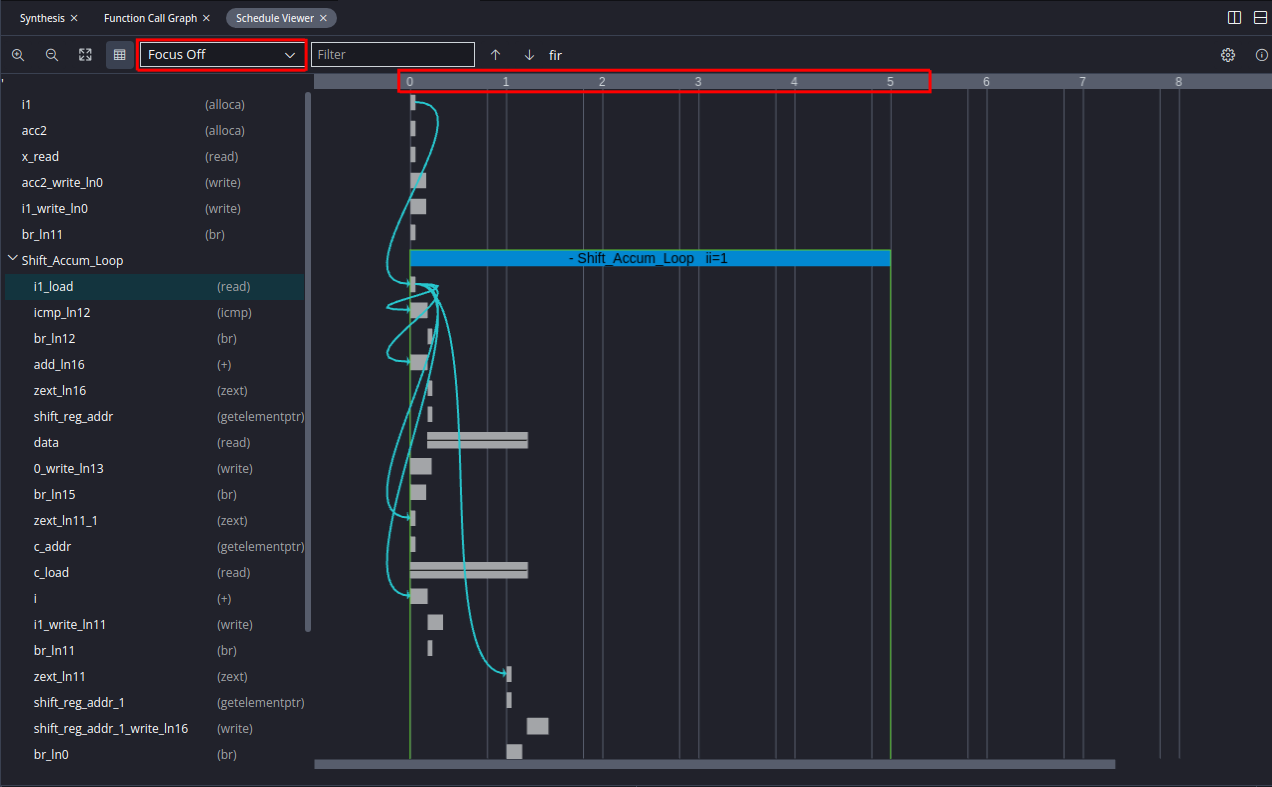
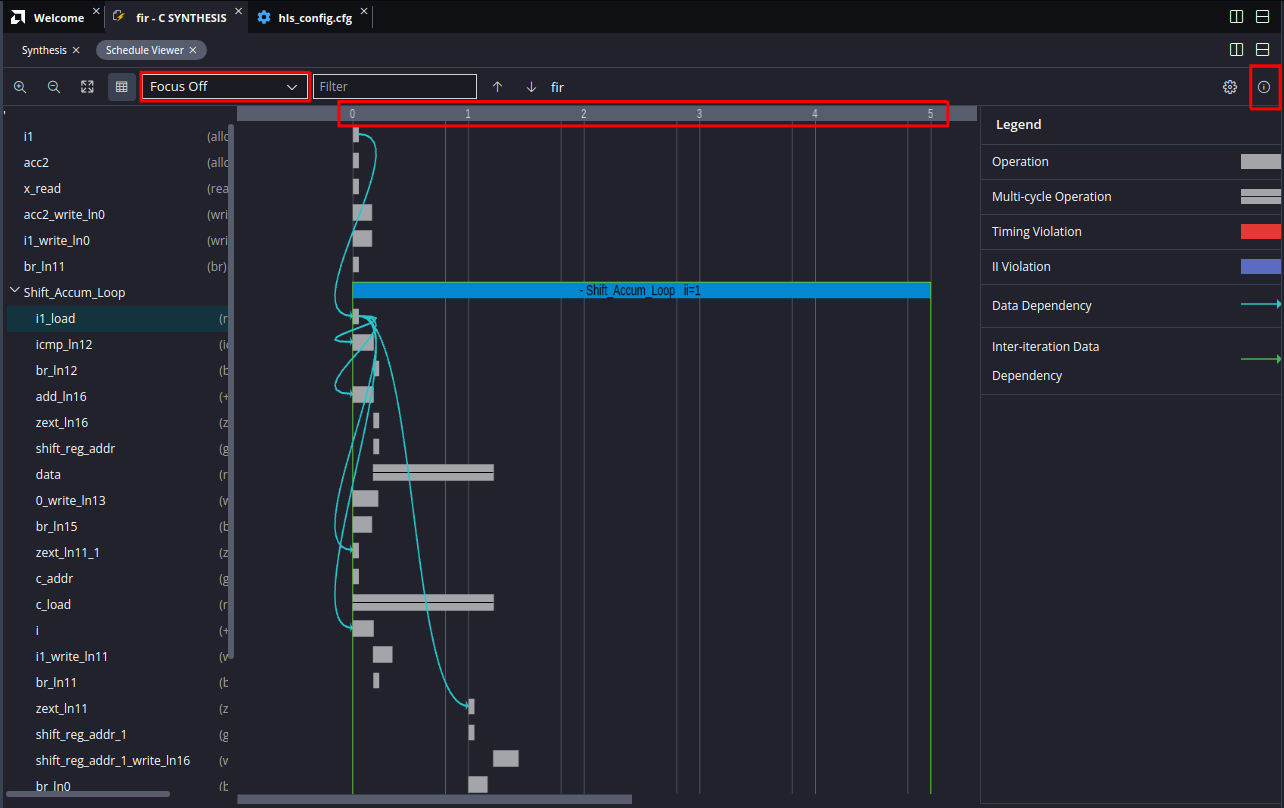
Added content

diff --git a/vitis_hls/tutorial_01/tutorial_01.md b/vitis_hls/tutorial_01/tutorial_01.md
@@ -1,11 +1,10 @@
 # HLS Tutorial 1: Project Setup and Basic Steps
 
-
 ---
 ## Overview
 * In this tutorial the setup of a Vitis HLS component project is described. Furthermore the basic steps _C Simulation_, _C Synthesis_ and _C/RTL Cosimulation_ are described. As an example we take a simple FIR filter, the source code for the component and the testbench can be found in the folder `reference_files/src`.
 * The project setup will be done in the Vitis GUI, this is described in [Creating a HLS component](#creating-a-hls-component). 
-* You can setup a project also on the command line, this is described in [Creating components from the command line](#creating-components-from-the-command-line). You can then open the Vitis GUI and open the project workspace and continue working with the project. 
+* You can setup a project also on the command line, this is described in [tutorial 1b](tutorial_01_b.md). You can then open the Vitis GUI and open the project workspace and continue working with the project. 
 * It is essential that you understand the concept of workspaces and components before you start with a component project. This is described in [Workspaces and components](#workspaces-and-components).
 * All setup data of a component is stored in a configuration file. If you setup a component project on the command line you need such a configuration file. You can find the content of a sample file in [Creating components from the command line](#creating-components-from-the-command-line) and in the folder `reference_files`. If you make changes later on in the Vitis GUI all changes will be stored in the same configuration file which you used for setting up the project.
 
@@ -51,7 +50,7 @@ vitis  -w <workspace>
 ![Create HLS component](images/hls_02.png)
 
 
-* This opens the _Configuration File_ page of the wizard as shown below. The HLS component configuration file contains commands and directives used for the synthesis, simulation, and export of the component and is _the_ most important file (beside the source code files).
+* This opens the _Configuration File_ page of the wizard as shown below. The HLS component configuration file contains commands and directives used for the synthesis, simulation, and export of the component and is _the_ most important file (besides the source code files).
 
 ![Configuration page](images/hls_03.png)
 
@@ -86,11 +85,11 @@ vitis  -w <workspace>
 ![Settings page](images/hls_06.png)
 
 * The _Summary_ page reflects the choices you have made on the prior pages. Review the summary and select `Finish` to create the HLS component, or select Back to return to earlier pages and change your selections.
-* When the HLS component is created you will get back to the Vitis IDE with the opened component workspace. Now it is time to explain the Vitis IDE in more detail. In the image below you can see five areas or panes in the IDE, if you are familiar with Visual Studio Code you may notice some similarities. The pane numbered with 1 is the _tool bar_ which allows you to switch between major features of the tool: the _Vitis Component Explorer_ (this is where you are at the moment), the _Search_ function, _Source Control_, the _Debug_ view, _Examples_, and the _Analysis_ view. Pane 2 is the _Vitis Component Explorer_ which can be used to view a virtual hierarchy of the workspace. The view displays the different elements of the component or project, such a sources and outputs folder. It does not show the real folder structure on the file system. In the _Flow Navigator_ in pane 3  you can select the actual component and the tools you can apply to it (C Simulation, C Synthesis C/RTL Cosimulation,  Package and Implementation). Pane 4 is the central editor window where you can edit the sources and view reports etc. Pane 5 is the console and terminal area, which may not be opened if you have not started a tool yet.  
+* When the HLS component is created you will get back to the Vitis IDE with the opened component workspace. Now it is time to explain the Vitis IDE in more detail. In the image below you can see five areas or panes in the IDE, if you are familiar with Visual Studio Code you may notice some similarities. The pane numbered with 1 is the _tool bar_ which allows you to switch between major features of the tool: the _Vitis Component Explorer_ (this is where you are at the moment), the _Search_ function, _Source Control_, the _Debug_ view, _Examples_ and the _Analysis_ view. Pane 2 is the _Vitis Component Explorer_ which can be used to view a virtual hierarchy of the workspace. The view displays the different elements of the component or project, such as sources and the outputs folder. It does not show the real folder structure on the file system. In the _Flow Navigator_ in pane 3  you can select the actual component (you have only one component `fir`) and the tools you can apply to it (C Simulation, C Synthesis C/RTL Cosimulation,  Package and Implementation). Pane 4 is the central editor window where you can edit the sources and view reports etc. Pane 5 is the console and terminal area, which may not be opened in your Vitis GUI since you have not started a tool yet.  
 
 ![Vitis GUI with component](images/hls_07.png)
 
-* Please review now also the folder structure in your workspace (with the Linux file manager). You have one component named `fir`, which uses the source codes in the `src` folder. In the component folder you can see the configuration file `hls_config.cfg` and the JSON file `vitis-comp.json`, plus another JSON file. You can see the sources and settings files also in the upper left pane (which is called the _Vitis Component Explorer_) in the Vitis GUI as shown in the image below.
+* Please review now also the folder structure in your workspace (with the Linux file manager). You have one component named `fir`, which uses the source codes in the `src` folder. In the component folder you can see the configuration file `hls_config.cfg` and the JSON file `vitis-comp.json`, plus another JSON file. You can see the sources and settings files also in the  _Vitis Component Explorer_ as shown in the image below.
 
 ```
 workspace_dir
@@ -112,11 +111,11 @@ workspace_dir
 ---
 ## C Simulation
 * The first step in a HLS project is to verify the correct function of the C code of the component. In order to test the component a _test bench_ is needed, which generates input data for the component and compares the output data with reference data. This is the same approach as in VHDL/Verilog design, the difference is that everything is coded in C/C++. So what we basically do here is to compile the code for the testbench and component and run the compiled code as application. 
-* First open the C sources in Vitis with the _Component Explorer_ and study the code for the component (`fir.c`) and the testbench (`fir_test.c`). In the component code you can see a loop _Shift_Accum_Loop_ which codes the functionality of an FIR filter with a shift register `shift_reg[N]` where the coefficients (argument `c[N]`) are multiplied with the shifted data and accumulated in the variable `acc` and returned via the pointer `y`. It is good practice to give loops a label in order to be able to identify them during analysis of the HLS synthesis results.  
+* First open the C sources in Vitis with the _Component Explorer_ and study the code for the component (`fir.c`) and the testbench (`fir_test.c`). In the component code you can see a loop _Shift_Accum_Loop_ which codes the functionality of an FIR filter with a shift register `shift_reg[N]` where the coefficients (argument `c[N]`) are multiplied with the shifted data and accumulated in the variable `acc` and returned via the pointer `y`. It is good practice to label loops in order to be able to identify them during analysis of the HLS synthesis results.  
 * The testbench (`fir_test.c`) defines the coefficients for the FIR filter in the variable `taps[N]`. In line 18 the file `out.gold.dat` is opened which contains the input data and the expected output data for comparison. In the loop the input and reference data is read and the component top level function is called in line 26. Finally the output data generated by the component is compared and an error flag is set, if there are discrepancies. An HLS testbench, i.e. the main function, needs to return a value, which is 0 in case of success and 1 if the output data of the component is not correct. This is important because the C/RTL Co-Simulation uses the same testbench and also checks the output of the generated VHDL or Verilog code against the reference data. This means that an HLS testbench always must be written in such a way that it is self-checking and generates a final pass (0) or fail (1) value as return value.
 * Run the C Simulation by pushing the `Run` button in the _Flow Navigator_ under `C Simulation`. A window will pop up and ask you if you want to enable the _Code Analyzer_, you can disable this feature for this tutorial. After simulation is completed you will see the output of the simulation below the editor window in the console area.  
 * If you write yourself code you may want to use a debugger by pushing the `Debug` button instead of `Run`. Vitis now starts the debugger as shown in the image below. Here you have the standard debugger functions like _Continue_, _Step Over_, _Step Into_ etc. (marked in red). You can also watch the variables (marked in red) or set break points in the source code editor. It is very similar in functionality to the debugger in Visual Studio Code. 
-* If you want to stop the debugger then push the red square button (`Stop`). In order to come back to the normal Vitis view, which you had before you started debugging, you have to push in the tool bar (most left pane) the _Vitis Components_ symbol (marked in green).
+* If you want to stop the debugger then push the red square button (`Stop`). In order to come back to the normal Vitis view, which you had before you started debugging, you have to push (most left pane) the _Vitis Components_ symbol (marked in green) in the tool bar .
 
 ![Debug code](images/hls_09.png)
 
@@ -124,54 +123,59 @@ workspace_dir
 ---
 ## C Synthesis
 * The most important step is the _C Synthesis_, which is in fact the High Level Synthesis (HLS) of the component coded in C/C++. To start the HLS go to the _Flow Navigator_ and push the `Run` button under `C Synthesis`. It will take some seconds depending on the compute power of your machine, when it is finished you will see _Synthesis finished successfully_ in the output console.
-* Go to the _Flow Navigator_, expand _REPORTS_ in the _C Synthesis_ section and push `Synthesis`. You should now see the synthesis report as shown in the next image. The most interesting informations are the _Timing Estimate_ and the _Performance & Resource Estimate_. As you can see in the report our constraint was a clock cycle time of 10 ns and Vitits estimates the critical path of the component to 6.86 ns, so we have a slack of 3.14 ns which is comfortable. But this is only a rough estimate since the component has not yet be implemented. In the _Performance & Resource Estimate_ you can see the latency and interval values (16 clock cycles and 11 clock cycles). The latency is the time for one operation of the component, which means one operation lasts 16 x 10 ns = 160 ns. The _Interval_ (shorthand for _Initiation Interval_) is the number of clock cycles before new inputs can be applied. Since we have 11 cycles for the _Interval_ this means that we could apply new input values before the operation of the component has finished (which takes 16 cycles). This follows from the fact that the loop has been pipelined, which you can also see in the report in the column _PIPELINED_. We will come back on pipeline topic in another tutorial.  
+* Go to the _Flow Navigator_, expand _REPORTS_ in the _C Synthesis_ section and push `Synthesis`. You should now see the synthesis report as shown in the next image. The most interesting informations are the _Timing Estimate_ and the _Performance & Resource Estimate_. As you can see in the report our constraint was a clock cycle time of _10 ns_ and Vitits estimates the critical path of the component to _6.86 ns_, so we have a slack of _3.14 ns_ which is comfortable. But this is only a rough estimate since the component has not yet be implemented. 
+* In the _Performance & Resource Estimate_ you can see the latency and interval values (16 clock cycles and 11 clock cycles). The latency is the time for one operation of the component, which means one operation lasts _16 x 10 ns = 160 ns_. The _Interval_ (shorthand for _Initiation Interval_) is the number of clock cycles before new inputs can be applied. Since we have 11 cycles for the _Interval_ this means that we could apply new input values before the operation of the component has finished (which takes 16 cycles). 
+* The performance is mainly determined by the loop, which iterates 11 times (_TRIP COUNT_). Each loop iteration needs 5 clock cycles (_ITERATION LATENCY_). The loop is operated in a pipelined manner, which you can also see in the report in the column _PIPELINED_. This means that loop iterations can start earlier, otherwise we would need _5 x 11 cycles = 55 cycles_ for all iterations. Loop pipelining is always applied automatically, since it is very effective. We will come back on pipelining in another tutorial.  
 
 ![Synthesis report](images/hls_10.png)
 
-* There are some more reports, for example the _Function Call Graph_, which shows you the function hierarchy (not really important for this tutorial). Another important report for analysis of the generated component hardware is the _Schedule Viewer_. If you open it you should the scheduling of the hardware operation as shown in the next image. 
-* In the first column you will see some cryptic names, these refer to identifiers in the generated VHDL or Verilog code. In the upper row (marked in red) you will see numbers beginning from 0. These are the so-called _control states_ of the finite state machine (FSM), which controls the operation of the component. You can easily identify the loop _Shift_Accum_Loop_ which takes 5 cycles for one iteration (this corresponds to the value in the synthesis report). 
-* Although this view may appear cryptic at a first glance, this is the main tool if you want to understand how the component operates and what could possibly be optimized. From experience the loops and memory accesses determine mainly the performance in terms of clock cycles and with some practice the schedule viewer can be helpful in analyzing the bottlenecks of your design. 
+* There are some more reports, for example the _Function Call Graph_, which shows you the function hierarchy (not really important for this tutorial). Another important report for analysis of the generated component hardware is the _Schedule Viewer_. If you open it you should see the scheduling of the hardware operation as shown in the next image. 
+* In the first column you will see some cryptic names, these refer to identifiers in the generated VHDL or Verilog code and represent operations in the hardware. In the upper row (marked in red) you will see numbers beginning from 0. These are the so-called _control states_ of the finite state machine (FSM), which controls the operation of the component. One control state equals one clock cycle. You can easily identify the loop _Shift_Accum_Loop_ which takes 5 cycles for one iteration (this corresponds to the value in the synthesis report). With the _Focus_ field (marked in red) you can set the focus to the loop, such that you can only inspect the loop. On the right side you can activate a legend (i-symbol marked in red).
+* Although this view may appear cryptic at a first glance, this is the main tool if you want to understand how the component operates and what could possibly be optimized. From experience the loops and memory accesses determine mainly the performance in terms of clock cycles and with some practice the schedule viewer can be helpful in analyzing the bottlenecks of your design. If you push one of the operations with the left mouse button you will see some green lines which show you the dependencies of the operations, which can be also helpful.
 
 ![Schedule viewer 1](images/hls_11.png)
 
-* If you push the right mouse button over one of the identifiers in the left column you get a context menu `Goto Source` which jumps to your C source code and shows you the relation to your C code. If you select for example the identifier `c_load` and go to the source you can see that this is the  access to the argument `c[i]`, which is in fact a memory access in hardware (it is assumed that a Block RAM is attached to the component which stores the coefficients). This is a so-called _multicycle resource_, since the corresponding bar spans over a clock cycle (and the bar has a center line).
+* If you push the right mouse button over one of the operations in the left column you get a context menu `Goto Source` which jumps to your C source code and shows you the relation to your C code. If you select for example the identifier `c_load` and go to the source you can see in line 19 that this is the  access to the argument `c[i]`, which is in fact a memory access in hardware (it is assumed that a Block RAM is attached to the component which stores the coefficients). This is a so-called _multicycle resource_, since the corresponding bar spans over a clock cycle (and the bar has a center line). In case of the Block RAM access this means that the address and control signals are applied before the rising clock edge and the Block RAM will deliver the coefficient value after the clock edge.
 
 ![Schedule viewer 2](images/hls_12.png)
 
-* There are also more informations in the reports. For example when you scroll down the synthesis report you will see informations on the hardware interfaces and SW I/O (where you can see the memory port for argument `c[N]`) and finally operator and storage information. We will come back on these issues in a later tutorial.
+* There are also more informations in the reports. For example when you scroll down the synthesis report you will see informations on the hardware interfaces and SW I/O (where you can see for example the memory port for argument `c[N]`) and finally operator and storage information. We will come back on these issues in a later tutorial.
 
 ---
 ## C/RTL Cosimulation
-* You can inspect the generated VHDL or Verilog code under _Output_ in the _Vitis Components Explorer_. In the image below you can see that the toplevel VHDL code `fir.vhd` has been opened. Since it is not sensible or possible to inspect the whole generated VHDL/Verilog code, the only way to verify it is by simulation. The _C/RTL Cosimulation_ will simulate the generated VHDL or Verilog by executing the C testbench and simulating the VHDL or Verilog code with the Xilinx simulation tool. Since we use the same self-checking testbench, that we have used for C simulation, we can be sure that the generated hardware component produces the same output data than our C code, if we have a _Pass_. Therefore _C/RTL Cosimulation_ is an important step and although you could proceed without cosimulation you should not do that. If cosimulation fails there can be several reasons for it, but one reason could be in fact that the hardware works not correctly.
+* You can inspect the generated VHDL or Verilog code under _Output_ in the _Vitis Components Explorer_. In the image below you can see that the toplevel VHDL code `fir.vhd` has been opened. Since it is not sensible or possible to inspect the whole generated VHDL/Verilog code, the only efficient way to verify it is by simulation. The _C/RTL Cosimulation_ will simulate the generated VHDL or Verilog code by executing the C testbench and simulating the VHDL or Verilog code with the Xilinx simulation tool. Since we use the same self-checking testbench, that we have used for C simulation, we can be sure that the generated hardware component produces the same output data than our C code, if we have a _Pass_. Therefore _C/RTL Cosimulation_ is an important step and although you could proceed without cosimulation you should not do that. If cosimulation fails there can be several reasons for it, but one reason could be in fact that the hardware works not correctly.
 
 ![VHDL code](images/hls_13.png)
 
-* 
+* Push the `Run` button in the section _C/RTL COSIMULATION_ in the _Flow Navigator_. When co-simulation has finished you should see the message marked in red in the next image in the console. In the console window there is a navigation area (marked in red) where you can switch between the console outputs of the tools.
+* Under _REPORTS_ select _ Cosimulation_ and you will see the _Performance & Resource Estimates_. If you compare this with the values of the synthesis report you may notice that the initiation interval is 15 cycles and not 11 cycles. If you scroll up in the console output there is a warning related to this problem:
+
+```
+WARNING: [HLS 200-626] This design is unable to schedule all read ports in the first II cycle. The RTL testbench may treat the design as non-pipelined
+ ```
+* This is a pipelining issue, which means that new data can only be applied after 15 clock cycles. We will come back on pipelining issues in a later tutorial. 
+
+![Cosimulation](images/hls_14.png)
+
+* When you push on _Timeline Trace_ under the reports the timeline trace report is opened as shown in the next image. In our testbench `fir_test.c` we call the `fir` function 26 times and you see there are 26 executions of the hardware component in this view. Each execution needs 15 cycles, and there is always an overlap of 1 cycle, where new data is applied. So the total execution time is 390 cycles for all 26 executions of the component, which gives an average execution time of 15 clock cycles.
+
+![Timeline](images/hls_15.png)
+
+* You can see that there is also an additional report called `Wave Viewer`. This is basically starting the Vivado wave viewer where you could watch the waveform traces of the VHDL/Verilog simulation. It is greyed out by default and would need some special settings in the configuration file. We will skip this here.
 
 ---
-## Creating components from the command line
-* If you want to generate components from the command line, e.g. for comparing variants you can run Vitis HLS from the command line. Switch to the component folder (directory structure as described above) and execute the following commands. This will setup a component project and start a HLS synthesis run, according to the settings given in the configuration file  `component1_config.cfg`. All output data will be stored in the work directory `component_work`.
-  
-```
-source <vitis installation path>/Vitis/<Version>/settings64.sh
-v++ -c --mode hls --config ./component1_config.cfg --work_dir component_work
-```
+## Package and Implementation
+* The last important step is to export the component as _IP Core_ such that it can be used in Vivado. Go to the _PACKAGE_ section in the _Flow Navigator_ and push `Run` (see image below). After a while you will see the message in the console marked in red which says that a zip-file `fir.zip` was generated in the folder `fir`, where the path is relative to the component folder such that you can find it in `<workspace>/fir/fir/fir.zip`. 
+* In addition the files of the IP Core are also generated in the Output section in the `impl` folder in the _Vitis Component Navigator_ as you can see in the image below (the true file path to this folder is `<workspace>/fir/fir/hls/impl`).
 
-* _Tip_: Put the commands in a bash shell script and execute the script.
-* The command or script should be executed in the component subdirectory of a workspace, see [Workspaces and components](#workspaces-and-components).
-* Below you can see the content of a sample configuration file. Refer to the [Vitis HLS documentation](https://docs.amd.com/r/en-US/ug1399-vitis-hls/HLS-Config-File-Commands) for the meaning of the entries in the file.
-```
-part=xc7a35tcpg236-1
+![Package](images/hls_16.png)
 
-[hls]
-flow_target=vivado
-package.output.format=ip_catalog
-package.output.syn=false
-syn.top=fir
-syn.file=../src/fir.c
-tb.file=../src/fir_test.c
-tb.file=../src/out.gold.dat
-clock=10ns
-clock_uncertainty=10%
-csim.code_analyzer=1
-```
+* In order to use the IP Core in Vivado you have to include the folder `<workspace>/fir/fir` as a _repository_ in Vivado. Then you can use the IP Core in an _IP Integrator_ block diagram as shown in the image below. There are some options for the export which can all be specified in the configuration file, for more details refer to the [Vitis HLS documentation](https://docs.amd.com/r/en-US/ug1399-vitis-hls/Packaging-the-RTL-Design).
+
+![Vivado](images/hls_17.png)
+
+* The very last step in the _Flow Navigator_ is _IMPLEMENTATION_, which is optional. If you push `Run` then logic synthesis and implementation (place&route) is run by running the corresponding Vivado tools in the background. Although it is not necessary to run the implementation (and it can take some time) it gives you the real numbers on resource usage and the critical path of the component. In following image you see the results (report _Place and Route_) of the implementation in terms of resource usage and timing. You can see that the critical path (_CP_) is 5.692 ns and that is below that what HLS estimated (6.86 ns), so the estimate was too pessimistic. Finally things can change again with respect to the critical path when the component is embedded into a larger design in Vivado, but the target clock cycle of 10 ns should be safely achievable.
+
+![Vivado](images/hls_18.png)
+
+

diff --git a/vitis_hls/tutorial_01/tutorial_01_b.md b/vitis_hls/tutorial_01/tutorial_01_b.md
@@ -1,0 +1,28 @@
+# HLS Tutorial 1b: Creating components from the command line
+
+
+* If you want to generate components from the command line, e.g. for comparing variants you can run Vitis HLS from the command line. Switch to the component folder (directory structure as described above) and execute the following commands. This will setup a component project and start a HLS synthesis run, according to the settings given in the configuration file  `component1_config.cfg`. All output data will be stored in the work directory `component_work`.
+  
+```
+source <vitis installation path>/Vitis/<Version>/settings64.sh
+v++ -c --mode hls --config ./component1_config.cfg --work_dir component_work
+```
+
+* _Tip_: Put the commands in a bash shell script and execute the script.
+* The command or script should be executed in the component subdirectory of a workspace, see [Workspaces and components](#workspaces-and-components).
+* Below you can see the content of a sample configuration file. Refer to the [Vitis HLS documentation](https://docs.amd.com/r/en-US/ug1399-vitis-hls/HLS-Config-File-Commands) for the meaning of the entries in the file.
+```
+part=xc7a35tcpg236-1
+
+[hls]
+flow_target=vivado
+package.output.format=ip_catalog
+package.output.syn=false
+syn.top=fir
+syn.file=../src/fir.c
+tb.file=../src/fir_test.c
+tb.file=../src/out.gold.dat
+clock=10ns
+clock_uncertainty=10%
+csim.code_analyzer=1
+```

diff --git a/vitis_hls/hls_overview.md b/vitis_hls/hls_overview.md
@@ -7,9 +7,10 @@ The Vitis tool version used is 2024.1. We assume that you have an installation o
 ---
 ## Vitis HLS Tutorials
 
-* [Setting up a Vitis HLS project and basic steps](tutorial_01/tutorial_01.md)
+* [Tutorial 1: Setting up a Vitis HLS project and basic steps](tutorial_01/tutorial_01.md)
+* [Tutorial 1b: Creating components from the command line](tutorial_01/tutorial_01_b.md)
 
 ---
-## Documentation
+## Additional Documentation
 * Documentation on Vitis HLS can be found here: [User Guide 1399](https://docs.amd.com/r/en-US/ug1399-vitis-hls)
 
